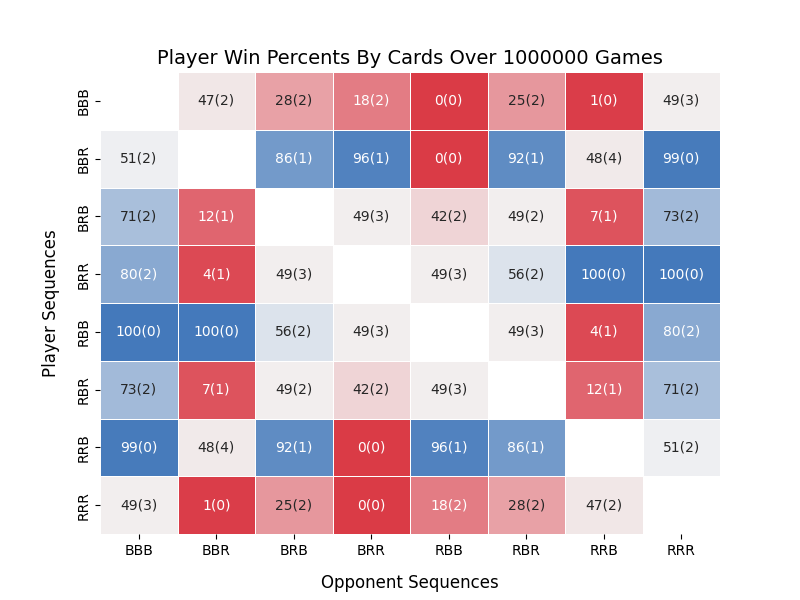
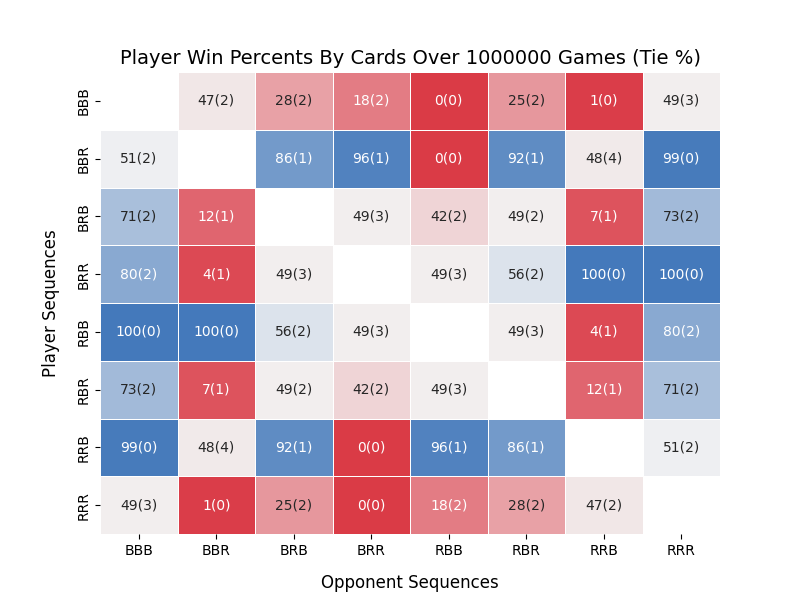
Clarified Visualization Title

Changed region(s): [[0.1562, 0.06, 0.875, 0.12]]

diff --git a/src/visualizing.py b/src/visualizing.py
@@ -21,7 +21,7 @@ class Plotter:
         """
         self._plot_heatmap(
             self.trick_probs,
-            f"Player Win Percents By Tricks Over {self.sampleSize} Games",
+            f"Player Win Percents By Tricks Over {self.sampleSize} Games (Tie %)",
         )
 
     def plot_cards_won_probs(self) -> None:
@@ -30,7 +30,7 @@ class Plotter:
         """
         self._plot_heatmap(
             self.cards_probs,
-            f"Player Win Percents By Cards Over {self.sampleSize} Games",
+            f"Player Win Percents By Cards Over {self.sampleSize} Games (Tie %)",
         )
 
     def _plot_heatmap(self, df: pd.DataFrame, title: str) -> None:
